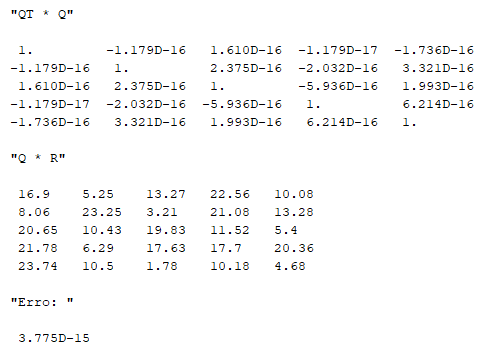
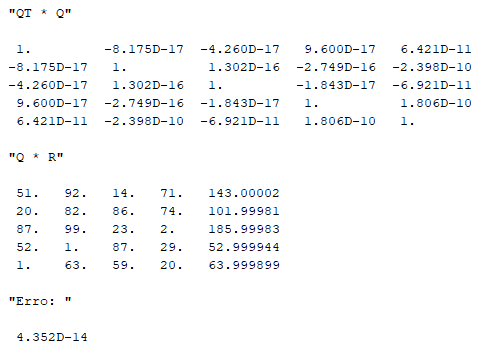
quase terminando relatório

diff --git a/AP5/relatorio.md b/AP5/relatorio.md
@@ -4,6 +4,85 @@ Autor: Daniel de Miranda Almeida
 Matrícula: 241708065, Curso: Ciência de Dados
 
 # Questão 1
+Código da função da questão 1:
+
+```scilab
+function [q, r_vetor] = Project_into(Q, a)
+    // Projeto um vetor no espaço definido pelos vetores dados.
+    // q é o vetor no qual estamos projetando a.
+    // Retorna a projeção e a coluna de r definida por ela.
+
+    // Número de colunas.
+    cols = size(Q, 'c')
+    r_vetor = 0
+
+    // Iniciando operação que vai definir v.
+    v = a
+    for i = 1:cols
+        q = Q(:, i)
+        coeficiente_projecao = q' * a
+        projecao = coeficiente_projecao * q
+        if i==1 then
+            r_vetor = coeficiente_projecao
+        else
+            // Adicionando coeficiente na matriz de coeficientes.
+            r_vetor = [r_vetor; coeficiente_projecao]
+        end
+
+        // Subtraindo a projeção para encontrar o perpendicular.
+        v = v - projecao
+    end
+
+    v_norm = norm(v, 2)
+
+    // Normalizando vetor.
+    q = v/v_norm
+    r_vetor = [r_vetor; v_norm]
+
+endfunction
+
+function [Q, R] = qr_GS(A)
+    // Calcula a decomposição QR da matriz A.
+    
+    n = size(A, 'r');
+
+    // Primeiro vetor é a primeira coluna de A.
+    v_current = A(:, 1)
+    // Normalizando.
+    v_norm = norm(v_current, 2)
+    q_current = v_current/v_norm
+    r_current = [v_norm; zeros(n - 1, 1)]
+
+    Q = q_current
+    R = [r_current]
+
+    for i = 2:n
+        // Os outros vetores são a projeção da próxima coluna de A no espaço
+        // formado.
+
+        // Calculando proxima projeção.
+        [q_current, r_vetor] = Project_into(Q, A(:, i))
+
+        // Atualizando variáveis
+        Q = [Q q_current]
+        // Adicionando zeros em r_vetor caso seja necessário.
+        r_vetor = [r_vetor; zeros(n-i,1)]
+        R = [R r_vetor]
+    end
+endfunction
+
+function [error] = Compute_accuracy_QR(Q, R, A)
+    // Compute how close to the initial A matrix QR is.
+
+    QR = Q * R
+    error = A - QR
+    error = sum(abs(error))
+endfunction
+```
+Eu optei por fazer uma função auxiliar para fazer a projeção do vetor A no espaço definido pelos q's de iterações anteriores para deixar o código mais limpo.
+
+A última função ```Compute_accuracy_QR``` é uma função que tem como objetivo calcular quão bem a matriz QR aproxima A. Na função é feita a subtração de QR de A e calculada a soma dos valores absolutos de toda a matriz resultante. Essa função será a mesma sempre que aparecer, com a exceção da questão 3, onde precisamos também permutar a matriz QR usando a matriz P criada.
+
 Matrizes utilizadas nas questões 1 a 4:
 
 <p align="middle">
@@ -17,7 +96,45 @@ Resultados de qr_GS:
   <img src="images/q1-A2.png" height="250" /> 
 </p>
 
+A segunda matriz A foi criada com python (linguagem que tenho mais familiaridade) para ser uma matriz quase linearmente dependente da seguinte maneira:
+- Foi criada uma matriz 5x5 com inteiros aleatórios entre 1 e 100.
+- A última coluna da matriz foi colocada como a soma das duas primeiras.
+- E por fim foi adicionando um pequeno ruído Gaussiano (com média 0 e desvio de $1^{-4}$) de forma que a última coluna fosse ligeiramente diferente da soma das duas primeiras.
+
 # Questão 2
+
+Código da questão 2:
+
+```scilab
+function [Q, R] = qr_GSM(A)
+	// Outra forma de calcular a decomposição QR da matriz A.
+
+	// Pegando número de linhas de A.
+	n = size(A, 'r')
+
+	for j = 1:n
+		// Vetor atual é a j-esima coluna de A.
+		v = A(:, j)
+		
+		// A partir da segunda iteração:
+		for i = 1:j-1
+			// Fazendo projeções de v no espaço dos q's já criados.
+			q_i = Q(:, i)
+			// Coeficiente.
+			r_ij = q_i' * v
+			R(i, j) = r_ij
+			// Pegando perpendicular da projeção.
+			v = v - r_ij * q_i
+		end
+
+		v_norm = norm(v, 2)
+		// Normalizando v;
+		Q(:, j) = v/v_norm
+		R(j, j) = v_norm
+	end
+endfunction
+```
+
 Resultados de qr_GSM:
 <p align="middle">
   <img src="images/q2-A1.png" height="250" />
@@ -25,6 +142,74 @@ Resultados de qr_GSM:
 </p>
 
 # Questão 3
+
+Código da questão 3:
+
+```scilab
+function [P] = Create_perm_col(size_m, col_1, col_2)
+    //create identity matrix
+    I = eye(size_m, size_m)
+    // permutate its lines
+    I(:, [col_1, col_2]) = I(:, [col_2, col_1])
+    P = I
+endfunction
+
+// Decomposição QR com pivoteamento de colunas.
+function [Q, R, P] = qr_GSP(A)
+    // Calcula a decomposição QR da matriz A usando pivoteamento de colunas.
+    
+    // Tamanho de A.
+    n = size(A, 'r')
+
+    // Inicializando Q e R.
+    Q = zeros(n, n)
+    R = zeros(n, n)
+
+	// Inicializando matriz que vai armazenar as permutações.
+	P = eye(n, n)
+
+    for j = 1:n
+        // Fazendo pivoteamento.
+		// Calculando normas.
+		normas = zeros(1, n)
+		for i = 1:n
+			normas(i) = norm(A(:,i))
+		end
+		// Obtendo maior coluna e seu índice.
+		[_, coluna_indice] = max(normas);
+        coluna_indice = coluna_indice + j - 1
+		// Criando permutação.
+        [Perm] = Create_perm_col(n, j, coluna_indice)
+		// Permutando A.
+		A = A * Perm
+		// Armezando permutação.
+		P = P * Perm
+
+		a_j = A(:, j)
+        // Vetor v começa como a.
+        v = a_j
+        for i = 1:j-1			
+			// Pegando q's anteriores.
+            q_i = Q(:, i)
+            
+            // Calculando coeficientes.
+            r_ij = q_i' * a_j
+            R(i, j) = r_ij
+
+            // Calculando projeção de a no espaço.
+            v = v - r_ij * q_i
+        end
+        v_norm = norm(v)
+        R(j, j) = v_norm
+        
+        // Normalizando v.
+        Q(:,j) = v/v_norm
+    end
+endfunction
+```
+
+A função ```Create_perm_col``` é uma função auxiliar que cria uma matriz de permutação de colunas a partir da permutação desejada para as colunas da matriz A.
+
 Resultados de qr_GSP:
 <p align="middle">
   <img src="images/q3-A1.png" height="250" />
@@ -33,6 +218,94 @@ Resultados de qr_GSP:
 
 # Questão 4
 ## Questão 4.1
+
+Código da questão 4.1:
+
+```scilab
+
+function [U, R] = qr_House_v1(A)
+    // Decompõe matriz A em U e R usando refletores de Househoulder.
+    
+    // Pegando dimensões de A.
+    [m, n] = size(A)
+    R = A
+    U = zeros(m, n)
+
+    for j = 1:n
+        x = R(j:m, j)
+        x_size = size(x, 'r')
+		
+		// Criando vetor u.
+		alpha = norm(x)
+		if x(1) >=0 then
+			alpha = -alpha
+		end
+		e_1 = [1; zeros(x_size - 1, 1)]
+		u = x - alpha * e_1
+        u_norm = norm(u)
+
+        // Evitando Nan.
+        if u_norm > 0 then
+            // Normalizando U.
+            u = u/u_norm
+            // Aplicando reflexão.
+            R(j:m, j:n) = R(j:m, j:n) - 2 * u * (u' * R(j:m, j:n))
+            U(j:m, j) = u
+        end
+    end
+endfunction
+
+function [U, R] = qr_House_v2(A)
+	// Decompõe matriz A em U e R usando refletores de Househoulder.
+
+	// Pegando dimensões de A.
+	[m, n] = size(A)
+	k = min(m - 1, n)
+
+	// Inicializando matrizes U e R.
+	U = zeros(m, k)
+	R = A
+
+	for j = 1:k
+		// Selecionando coluna atual de A (R).
+		x = R(j:m, j)
+		x_size = size(x, 'r')
+		
+		// Criando vetor u.
+		alpha = norm(x)
+		if x(1) >=0 then
+			alpha = -alpha
+		end
+		e_1 = [1; zeros(x_size - 1, 1)]
+		u = x - alpha * e_1
+		u = u/norm(u)
+		// Adicionando vetor u à matriz U.
+		U(j:m, j) = u
+
+		// Aplicando reflexão.
+		R(j:m, j:n) = R(j:m, j:n) - 2 * u * (u' * R(j:m, j:n))
+		
+		// R = H * R
+	end
+
+endfunction
+
+function [Q] = Constroi_Q_House(U)
+	// Cria matriz ortogonal Q a partir da matriz U.
+
+	[m, n] = size(U)
+	k = min(m, n)
+	Q = eye(m, m)
+	for j = n:-1:1
+		u = U(j:m, j)
+		u_size = size(u, 'r')
+
+		// Aplicando reflexão.
+		Q(j:m, :) = Q(j:m, :) - 2 * u * (u' * Q(j:m, :))
+	end
+endfunction
+```
+
 Resultados de qr_House_v1:
 <p align="middle">
   <img src="images/q411-A1.png" height="250" />
@@ -43,6 +316,11 @@ Resultados de qr_House_v2:
   <img src="images/q412-A1.png" height="250" />
   <img src="images/q412-A2.png" height="250" /> 
 </p>
+
+### Comentários sobre as questões 1 a 4.1
+Como podemos ver, principalmente com a segunda matriz, que traz mais problemas para algorítmos menos estáveis numericamente (devido à sua última coluna que é quase igual a soma de duas outras), o erro foi mudando conforme avançamos pelos algorítmos, desde o mais simples e menos estável que é o método de Gram Schmidt até o mais complexo e mais estável método utilizando refletores de Househoulder. 
+
+Por algum motivo o erro na realidade aumentou conforme avançamos pelos algorítmos, mas imagino que seja algum erro meu na função que calcula esse erro, de qualquer forma, podemos ver que há uma diferença sensível no erro para o primeiro método em relação ao último, diferença essa que deve aumentar quando escalarmos para matrizes maiores e mais instáveis (entenda instável como matriz que gera mais erro para algortímos menos estáveis numericamente).
 
 ## Questão 4.2
 Matrizes:
@@ -83,6 +361,4 @@ Resultados de qr_House_v2:
   <img src="images/q42-4-3-2.png" height="210" /> 
 </p>
 
-<img src="images/resultado_3_q_1.png" 
-        height="80" 
-	style="display: block; margin: 0 auto; position: relative" />
+Para essas últimas matrizes, os métodos usando Refletores de Householder parecem ter gerado matrizes Q "melhores", pois podemos ver que as últimas multiplicações $Q^{T}Q$ parecem se aproximar mais da matriz identidade. Além disso os métodos usando refletores também parecem ter gerado erros ligeiramente menores para as matrizes em questão.
